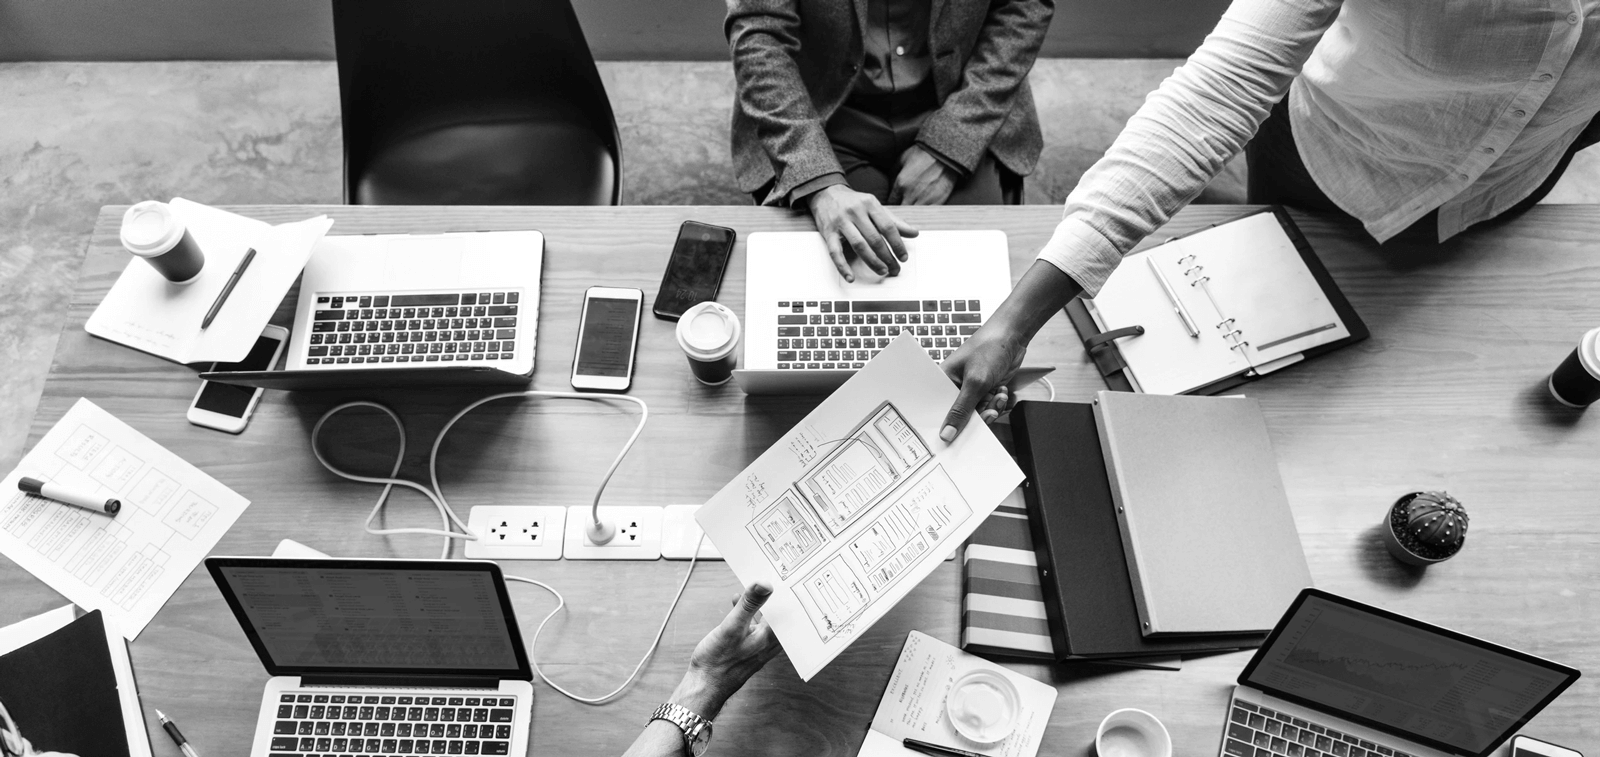
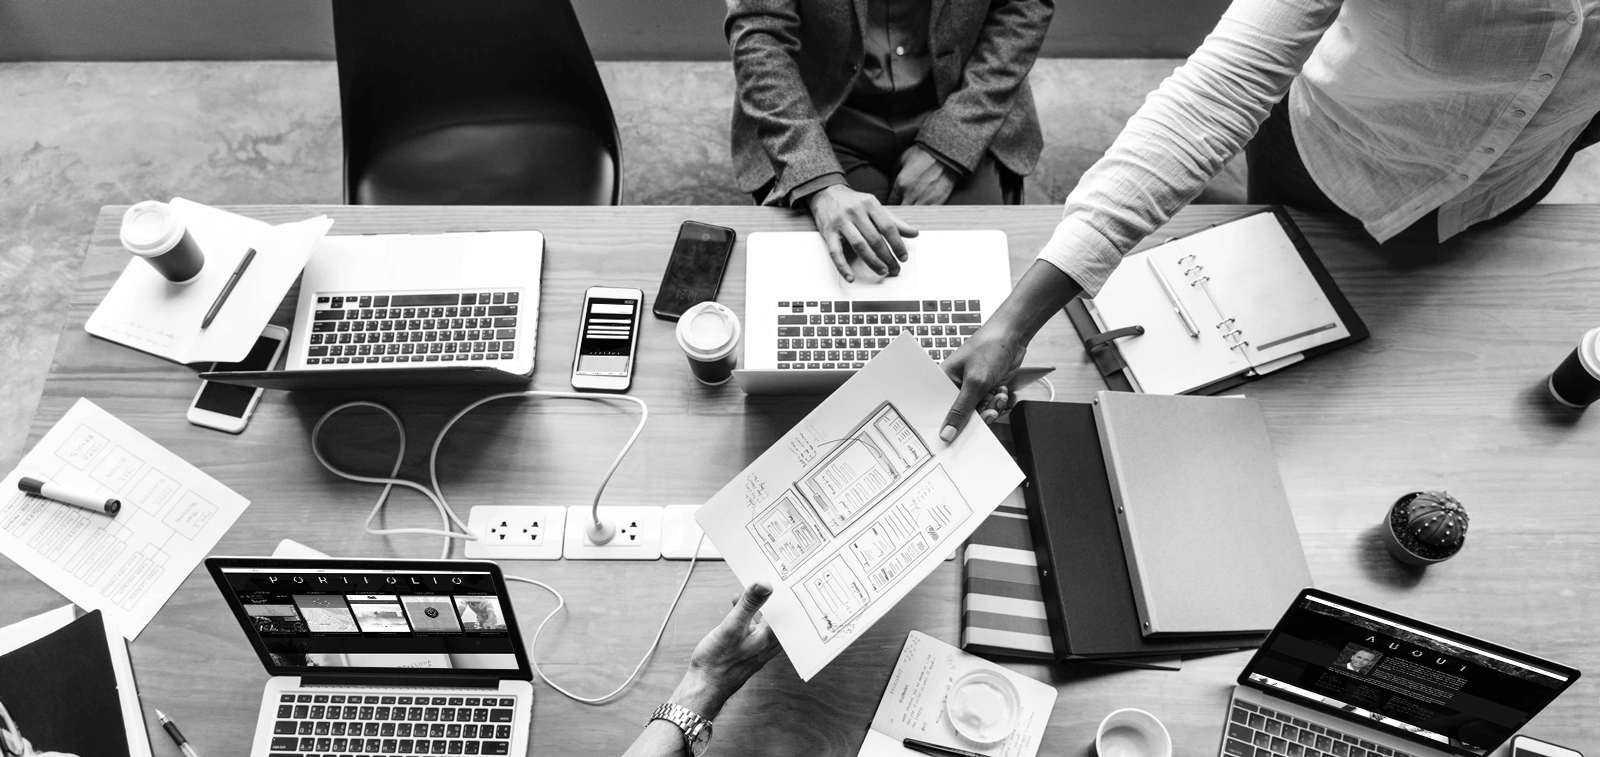
replaced on showcase app and updated a background image

Changed region(s): [[0.7812, 0.79, 1.0, 1.0], [0.125, 0.7292, 0.3438, 0.8811], [0.3438, 0.395, 0.4062, 0.5165]]

diff --git a/index.html b/index.html
@@ -196,8 +196,8 @@
 
                 
                 <div class="card">
-                        <h4 id="portfolio-7"> Multiple API </h4>
-                        <iframe src="https://rogueathletic.github.io/team-project-one/" 
+                        <h4 id="portfolio-7"> Game App </h4>
+                        <iframe src="https://rogueathletic.github.io/crystal-collector/" 
                                 width="400px" 
                                 class="port-iframes"
                                 height="400px" 
@@ -205,12 +205,12 @@
                                 scrolling="yes">
                         </iframe>
                         <br>
-                        <a href="https://rogueathletic.github.io/team-project-one" 
+                        <a href="https://rogueathletic.github.io/crystal-collector/" 
                            id="portfolio-exterior-links" 
                            target="_blank">
-                            UCSD Full Stack Course team Project multiple API
+                            UCSD Full Stack Course Video Game App
                         </a>
-                        <a id="code-links" href="https://github.com/rogueathletic/team-project-one">Link to code</a>
+                        <a id="code-links" href="https://github.com/rogueathletic/crystal-collector">Link to code</a>
                     </div>
     
 

diff --git a/assets/style-sheets/style.css b/assets/style-sheets/style.css
@@ -145,7 +145,6 @@
     text-justify: inter-word;
     padding: 0vw 2vh;
     color: wheat;
-
     margin-right: 3vw;
     margin-left: .5vw;
 
@@ -281,7 +280,7 @@
     margin: .5vw;
     flex: 0 0 auto;
     background-color: black;
-    border-top-right-radius: 25px
+    border-radius: 20px;
 }
 
 .scrolling-wrapper-flexbox {
@@ -313,8 +312,10 @@ h4 {
 #linkedin,
 #text-messaging{
     /* links just above footer that direct to my resume, linked in account, and my git hub account. Might add my instagram as it has good traction as well and showcasses many professional modeling shots. */
-    max-height: 100px;
-    max-width: 100px;
+    max-height: 12vh;
+    min-height:2vh;
+    max-width: 12vw;
+    min-width: 2vw;
     display: flex;
     justify-content: space-between;
     cursor: grab;
